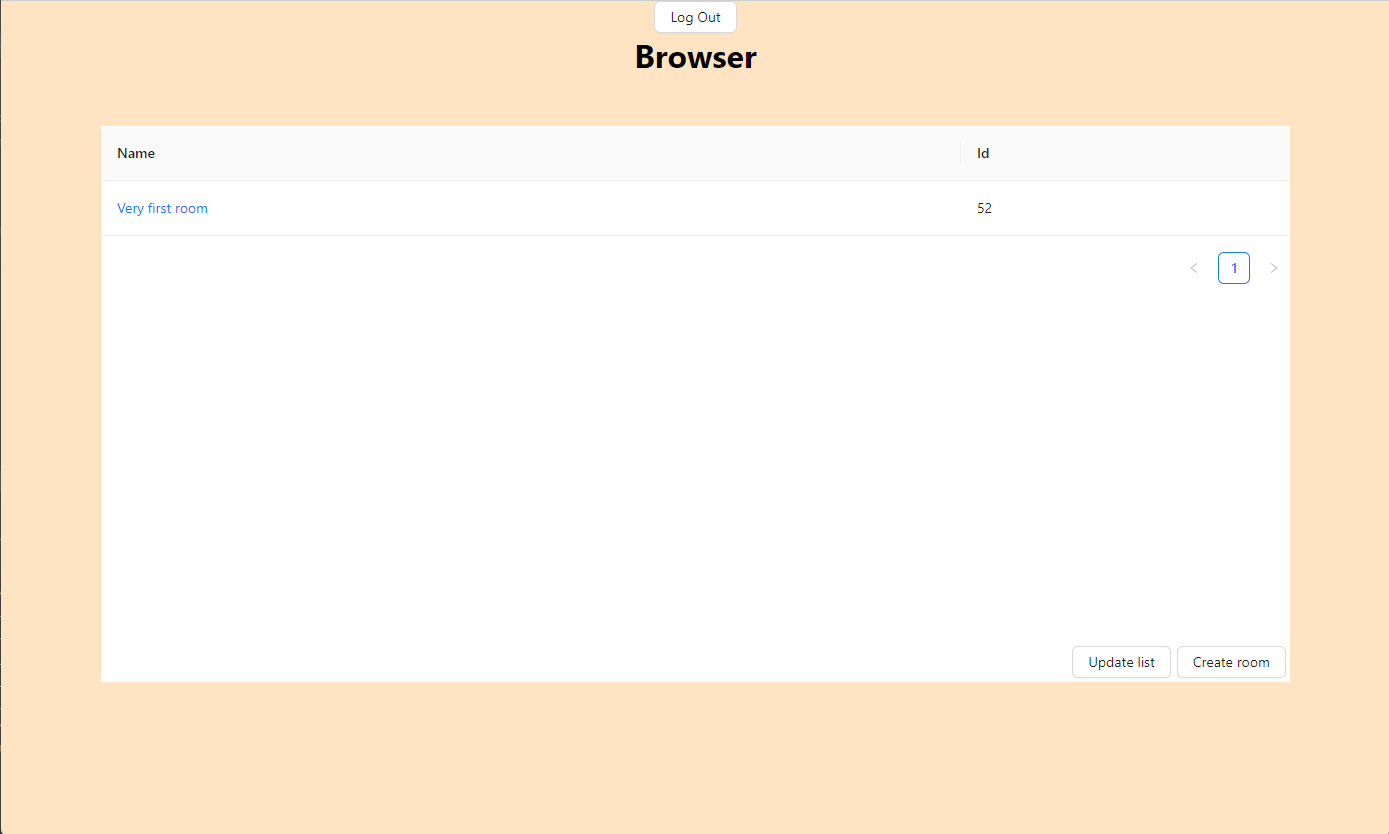
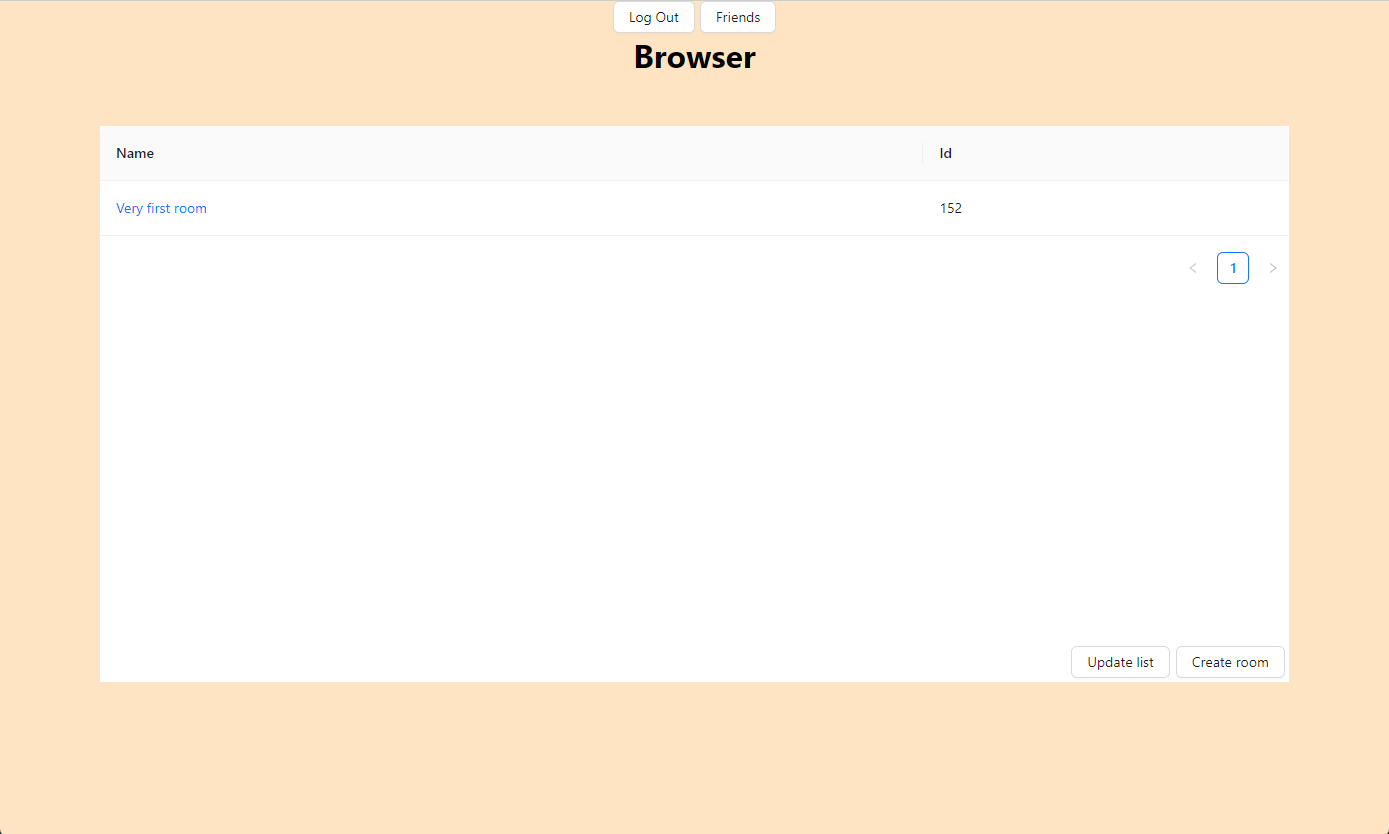
поправил верстку страницы друзей. Дописал текст про друзей в доку.

diff --git a/front/src/Pages/Friends/FriendsPage.tsx b/front/src/Pages/Friends/FriendsPage.tsx
@@ -4,13 +4,29 @@ import SentFriendRequestComponent from "./SentFriendRequestComponent";
 import SearchUserModal from "./SearchUserModal";
 import {Button} from "antd";
 import React, {useState} from "react";
+import {AxiosService} from "../../Classes/Http/AxiosService";
+import {PagesEnum} from "../PagesEnum";
+import {useNavigate} from "react-router-dom";
 
 export function FriendsPage() {
     const [isSearchOpen, setSearchOpen] = useState<boolean>(false)
+    const navigate = useNavigate();
 
     const onAddClick = () => {
         setSearchOpen(true);
     }
+
+    const menu = (
+        <div className='horizontal' style={{alignSelf: 'center', gap: '5px'}}>
+            <Button onClick={() => {
+                AxiosService.setAuthToken(null)
+                navigate(PagesEnum.LOGIN)
+            }}>Log Out</Button>
+            <Button onClick={() => {
+                navigate(PagesEnum.ROOM_LIST)
+            }}>Room list</Button>
+        </div>
+    )
 
     return (
         <div className='vertical'>
@@ -18,6 +34,8 @@ export function FriendsPage() {
                 display: 'flex',
                 flexDirection: 'column',
             }}>
+                {menu}
+
                 <h1 style={{alignSelf: 'center'}}>Friends</h1>
                 <div className='outer_frame'>
                     <div className='grid_container'>
@@ -31,17 +49,17 @@ export function FriendsPage() {
                                     </div>
                                 </div>
                                 <div className='vertical'
-                                     style={{alignItems: 'stretch', justifyItems: 'stretch', flex: 1}}>
+                                     style={{alignItems: 'stretch', alignSelf: 'stretch', flex: 1}}>
                                     <ReceivedFriendRequestComponent/>
                                     <SentFriendRequestComponent/>
                                 </div>
-                                <SearchUserModal isOpen={isSearchOpen}
-                                                 setOpen={(value: boolean) => setSearchOpen(value)}/>
                             </div>
                         </div>
                     </div>
                 </div>
             </div>
+            <SearchUserModal isOpen={isSearchOpen}
+                             setOpen={(value: boolean) => setSearchOpen(value)}/>
         </div>
     );
 }

diff --git a/front/src/Pages/Friends/SearchUserModal.tsx b/front/src/Pages/Friends/SearchUserModal.tsx
@@ -41,19 +41,19 @@ export default function SearchUserModal(props: Readonly<{ isOpen: boolean, setOp
                                 if (user.requestAlreadySent) {
                                     return (
                                         <div className='horizontal' key={user.id}>
-                                            <div>{user.name}</div>
+                                            <div style={{alignSelf:'center', margin:'5px'}}>{user.name}</div>
                                             <CloseButton onClick={() => HttpFriendApi.cancelRequest(user.id).then(update)}/>
                                         </div>);
                                 } else if (user.alreadyFriend) {
                                     return (
                                         <div className='horizontal' key={user.id}>
-                                            <div>{user.name}</div>
+                                            <div style={{alignSelf:'center', margin:'5px'}}>{user.name}</div>
                                             <UserOutlined style={{color: green[5]}}/>
                                         </div>)
                                 } else {
                                     return (
                                         <div className='horizontal' key={user.id}>
-                                            <div>{user.name}</div>
+                                            <div style={{alignSelf:'center', margin:'5px'}}>{user.name}</div>
                                             <CheckButton onClick={() => HttpFriendApi.sendRequest(user.id).then(update)}/>
                                         </div>);
                                 }

diff --git a/front/src/Pages/Browser/BrowserPage.tsx b/front/src/Pages/Browser/BrowserPage.tsx
@@ -11,10 +11,15 @@ export function BrowserPage() {
 
     return (
         <div className='vertical'>
-            <Button style={{width: 'fit-content', alignSelf: 'center'}} onClick={() => {
-                AxiosService.setAuthToken(null)
-                navigate(PagesEnum.LOGIN)
-            }}>Log Out</Button>
+            <div className='horizontal' style={{alignSelf: 'center', gap:'5px'}}>
+                <Button onClick={() => {
+                    AxiosService.setAuthToken(null)
+                    navigate(PagesEnum.LOGIN)
+                }}>Log Out</Button>
+                <Button onClick={() => {
+                    navigate(PagesEnum.FRIENDS)
+                }}>Friends</Button>
+            </div>
             <div style={{
                 display: 'flex',
                 flexDirection: 'column',

diff --git a/front/src/Pages/Friends/YesNoFriendRow.tsx b/front/src/Pages/Friends/YesNoFriendRow.tsx
@@ -11,10 +11,12 @@ export default function YesNoFriendRow(props: Readonly<{
 
     return (
         <div className='horizontal' key={props.user.id}>
-            <div>{props.user.name}</div>
-            <div>
-                <CheckButton onClick={() => props.onYesClick()}/>
-                <CloseButton onClick={() => props.onNoClick()}/>
-            </div>
+            <div style={{alignSelf: 'center', margin: '0 5px 0 0'}}>{props.user.name}</div>
+                <div style={{margin: ' 0 4px 0 0'}}>
+                    <CheckButton onClick={() => props.onYesClick()}/>
+                </div>
+                <div style={{margin: '0 4px 0 0'}}>
+                    <CloseButton onClick={() => props.onNoClick()}/>
+                </div>
         </div>)
 }

diff --git a/front/src/Pages/Friends/ReceivedFriendRequestComponent.tsx b/front/src/Pages/Friends/ReceivedFriendRequestComponent.tsx
@@ -23,9 +23,11 @@ export default function ReceivedFriendRequestComponent() {
                 display: 'flex',
                 flexDirection: 'column',
                 margin: '5px',
-                justifyContent: 'stretch', alignContent: 'stretch'
+                justifyContent: 'stretch', alignContent: 'stretch',
+                overflowY: 'visible',
+                overflowX: 'hidden'
             }}>
-                <Card style={{minHeight: '200px'}}>
+                <Card style={{minHeight: '200px', alignSelf:'stretch'}}>
                     {requests.map((follower) => {
                         return (
                             <YesNoFriendRow key={follower.id} user={follower}

diff --git a/front/src/Pages/Friends/SentFriendRequestComponent.tsx b/front/src/Pages/Friends/SentFriendRequestComponent.tsx
@@ -23,6 +23,8 @@ export default function SentFriendRequestComponent() {
                 display: 'flex',
                 flexDirection: 'column',
                 margin: '5px',
+                overflowY: 'visible',
+                overflowX: 'hidden'
             }}>
                 <Card style={{minHeight: '200px'}}>
                     {requests.map((following) => {

diff --git a/doc/application_screens.md b/doc/application_screens.md
@@ -17,6 +17,9 @@
 В каждую из комнат можно зайти.
 Так же пользователь может создать свою комнату, нажав кнопку "Create room". Откроется всплывающее окно создания комнаты.
 
+Так же в комнату пользователь может попасть по прямой ссылке. 
+Таким образом можно пригласить друга сразу в комнату.
+
 ![список комнат](images/room_list.png)
 
 ## Создание комнаты
@@ -31,7 +34,7 @@
 В каждом комнате всего один рисующий. Если рисующий выходит из игры, случайным образом выбирается новый рисующий.
 Если из комнаты вышли все пользователи, комната удаляется.
 
-Рисующему надется на выбор три слова.
+Рисующему дается на выбор три слова.
 
 ![выбор слова](images/choose_word.png)
 
@@ -49,3 +52,22 @@
 ![интерфейс угадывающего](images/room_guess.png)
 
 Когда угадывающий пишет правильное слово в чате он становится рисующим.
+
+## Друзья
+На этом экране можно увидеть список друзей и список всех входящих/исходящих запросов в друзья.
+
+В списке друзей отображается в какой комнате сейчас играют друзья. Нажав на комнату, можно перейти на неё.
+
+![в игру из списка друзей](images/go_to_game.png)
+
+В списке входящих запросов отображается имя пользователя, а также кнопки, нажатие на которые принимает или отклоняет запрос.
+В списке исходящих запросов отображается имя пользователя, а также кнопка, нажатие на которую отменяет запрос.
+
+![в игру из списка друзей](images/incoming.png)
+
+Нажатие на кнопку "Add friend" открывает всплывающее окно, 
+в котором можно ввести текст и увидеть список пользователей, имя которых начинается с этого текста.
+Рядом с именем пользователя отображаются значки "отправить запрос", "отменить запрос" и "уже в друзьях".
+![в игру из списка друзей](images/find_user.png)
+
+![в игру из списка друзей](images/already_friend.png)
